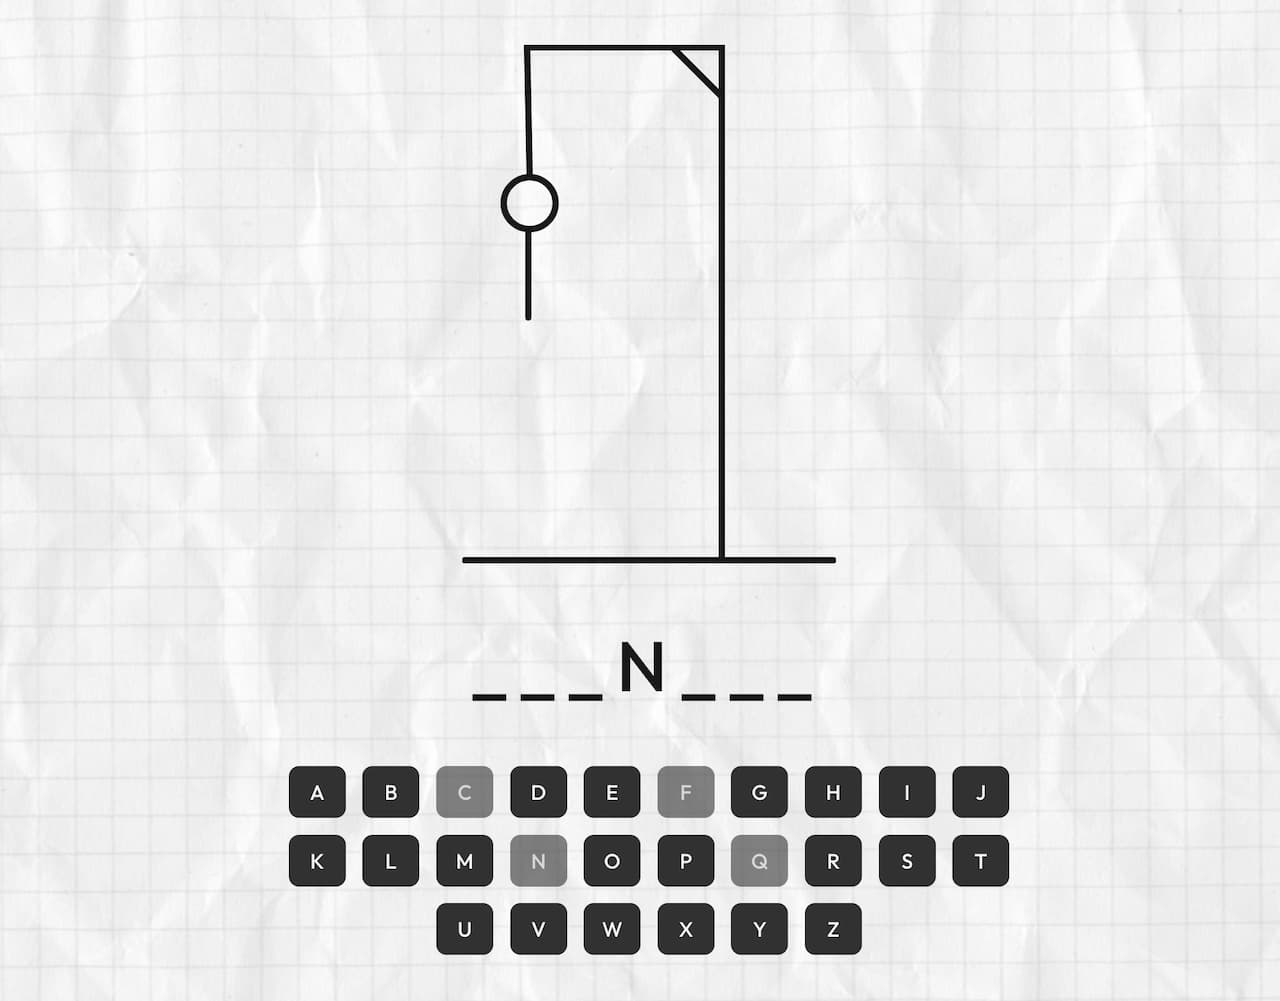
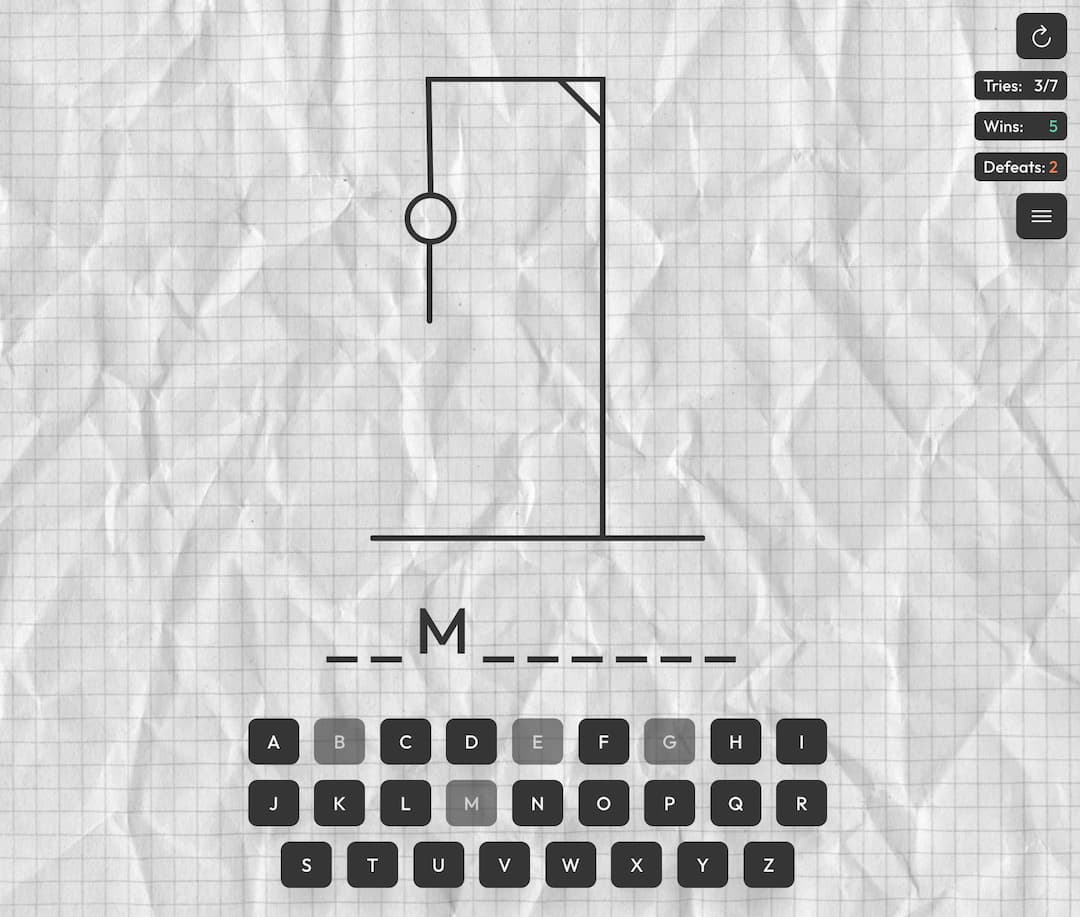
ADD: menu logic, animations, categories & screenshot updated

diff --git a/src/index.css b/src/index.css
@@ -46,8 +46,8 @@ line {
 }
 
 h1 {
-  font-size: 3.4em;
-  line-height: 1.1;
+  font-size: 3.5em;
+  line-height: 1em;
   letter-spacing: 0.2em;
 }
 h1,
@@ -72,7 +72,8 @@ button {
   color: whitesmoke;
   cursor: pointer;
   transition: all 0.3s ease;
-  box-shadow: 0 0 6px rgba(0, 0, 0, 0.2);
+  box-shadow: 0 18px 21px -4px rgba(0, 0, 0, 0.17),
+    0 5px 9px -55px rgba(0, 0, 0, 0.14);
 }
 button:hover {
   background-color: black;
@@ -85,6 +86,47 @@ button:disabled {
   opacity: 0.65;
   color: rgba(255, 255, 255, 0.7);
   pointer-events: none;
+  box-shadow: none;
+}
+
+.menu {
+  display: flex;
+  align-items: end;
+  flex-direction: column;
+  gap: 10px;
+}
+
+.menu ul {
+  color: whitesmoke;
+  padding: 8px;
+  font-size: 15px;
+  text-align: right;
+  display: flex;
+  flex-direction: column;
+  gap: 1px;
+}
+
+.menu ul {
+  background-color: #363636;
+  color: whitesmoke;
+  border-radius: 8px;
+  box-shadow: 0 18px 21px -4px rgba(0, 0, 0, 0.17),
+    0 5px 9px -55px rgba(0, 0, 0, 0.14);
+}
+
+.menu ul li {
+  padding: 0 8px;
+  cursor: pointer;
+  border-radius: 5px;
+}
+
+.menu ul li:hover {
+  background-color: #000;
+}
+ul {
+  list-style: none;
+  padding: 0;
+  margin: 0;
 }
 
 .wrapper {
@@ -106,8 +148,8 @@ button:disabled {
 
 .userboard {
   position: absolute;
-  right: 20px;
-  top: 20px;
+  right: 16px;
+  top: 16px;
   display: flex;
   flex-direction: column;
   align-items: end;
@@ -122,9 +164,9 @@ button:disabled {
   background-color: #363636;
   color: whitesmoke;
   font-size: 14px;
-  padding: 2px 7px;
+  padding: 2px 8px;
   border-radius: 5px;
-  min-width: 62px;
+  min-width: 64px;
 }
 
 .danger {

diff --git a/src/Menu.jsx b/src/Menu.jsx
@@ -1,0 +1,66 @@
+import { useState } from 'react'
+import { motion } from 'motion/react'
+import { IoMenuOutline } from 'react-icons/io5'
+import { siteConfig } from './config'
+
+const wrapperVariants = {
+  open: {
+    scaleY: 1,
+    transition: {
+      when: 'beforeChildren',
+      staggerChildren: 0.1,
+    },
+  },
+  closed: {
+    scaleY: 0,
+    transition: {
+      when: 'afterChildren',
+      staggerChildren: 0.1,
+    },
+  },
+}
+
+const itemVariants = {
+  open: {
+    opacity: 1,
+    y: 0,
+    transition: {
+      when: 'beforeChildren',
+    },
+  },
+  closed: {
+    opacity: 0,
+    y: -15,
+    transition: {
+      when: 'afterChildren',
+    },
+  },
+}
+
+export const Menu = () => {
+  const [open, setOpen] = useState(false)
+
+  return (
+    <motion.div className="menu" animate={open ? 'open' : 'closed'}>
+      <button onClick={() => setOpen((pv) => !pv)}>
+        <IoMenuOutline size={23} />
+      </button>
+      <motion.ul
+        initial={wrapperVariants.closed}
+        variants={wrapperVariants}
+        className={`list ${open ? 'open' : 'closed'}`}
+        style={{ originY: 'top' }}
+      >
+        {Object.keys(siteConfig.categories).map((category) => (
+          <motion.li
+            key={category}
+            variants={itemVariants}
+            onClick={() => setOpen(false)}
+          >
+            {category.charAt(0).toUpperCase() + category.slice(1)}
+          </motion.li>
+        ))}
+      </motion.ul>
+    </motion.div>
+  )
+}

diff --git a/src/App.jsx b/src/App.jsx
@@ -3,6 +3,7 @@ import { IoRefresh } from 'react-icons/io5'
 import { getRandom, genHiddenWord, updateWord } from './utils'
 import { siteConfig } from './config'
 import { Canvas } from './Canvas'
+import { Menu } from './Menu'
 
 function App() {
   const random = getRandom(siteConfig.categories.animals)
@@ -74,7 +75,7 @@ function App() {
           title="Refresh"
           onClick={() => refresh()}
         >
-          <IoRefresh size="23" />
+          <IoRefresh size={23} />
         </button>
         <div className="stats">
           <span>Tries:</span>
@@ -90,6 +91,7 @@ function App() {
           <span>Defeats:</span>
           <span className="danger">{defeats}</span>
         </div>
+        <Menu />
       </div>
       <div className="buttons">
         {siteConfig.alphabet.map((letter, index) => (

diff --git a/src/config/index.js b/src/config/index.js
@@ -186,7 +186,7 @@ export const siteConfig = {
       'Sofia',
       'Baghdad',
     ],
-    musicBands: [
+    bands: [
       'The Beatles',
       'Queen',
       'Led Zeppelin',
